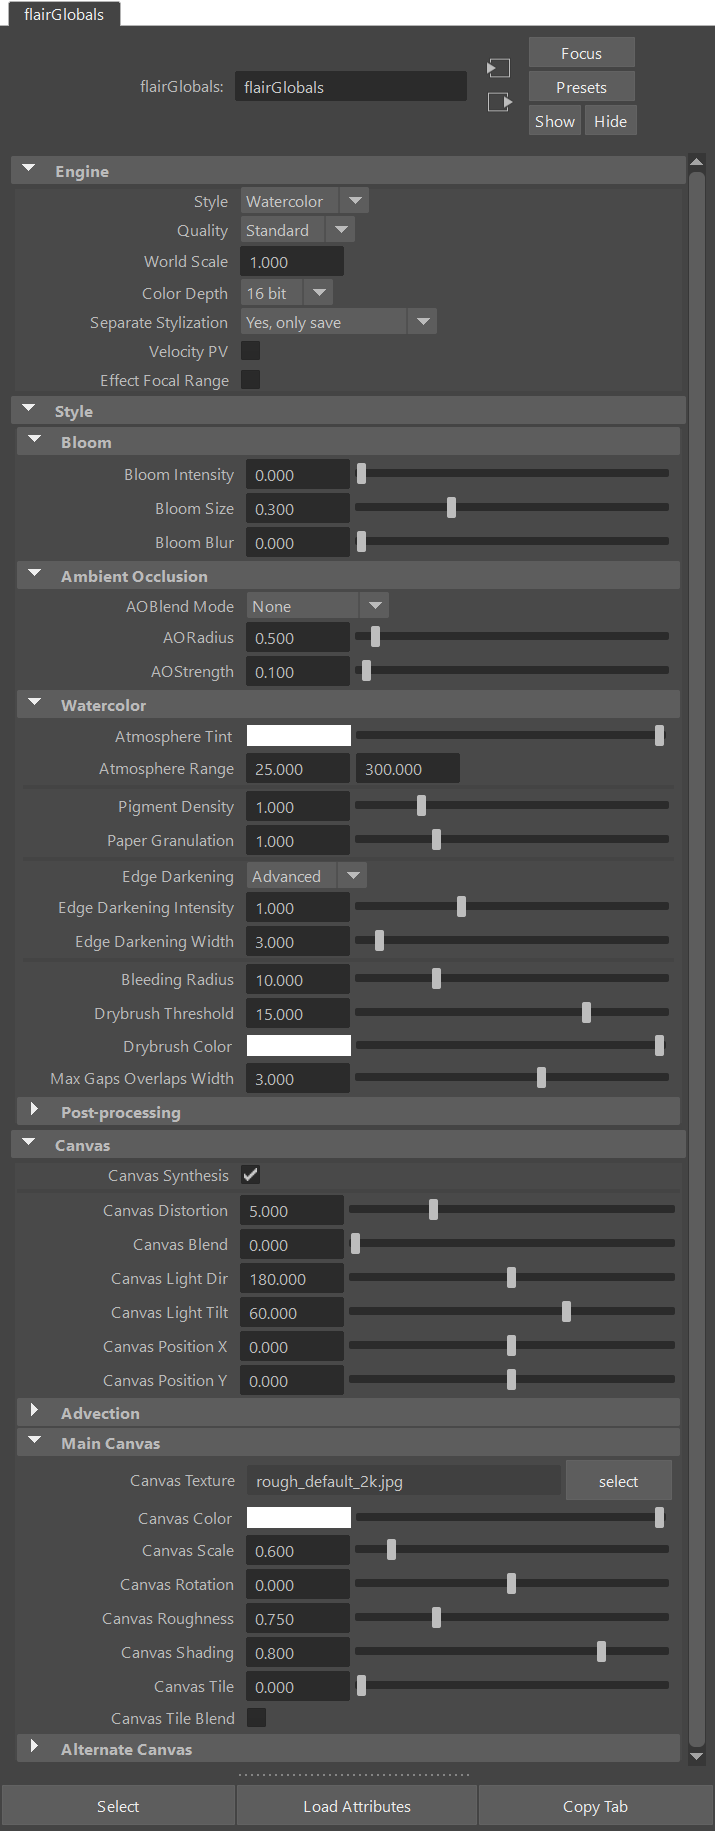
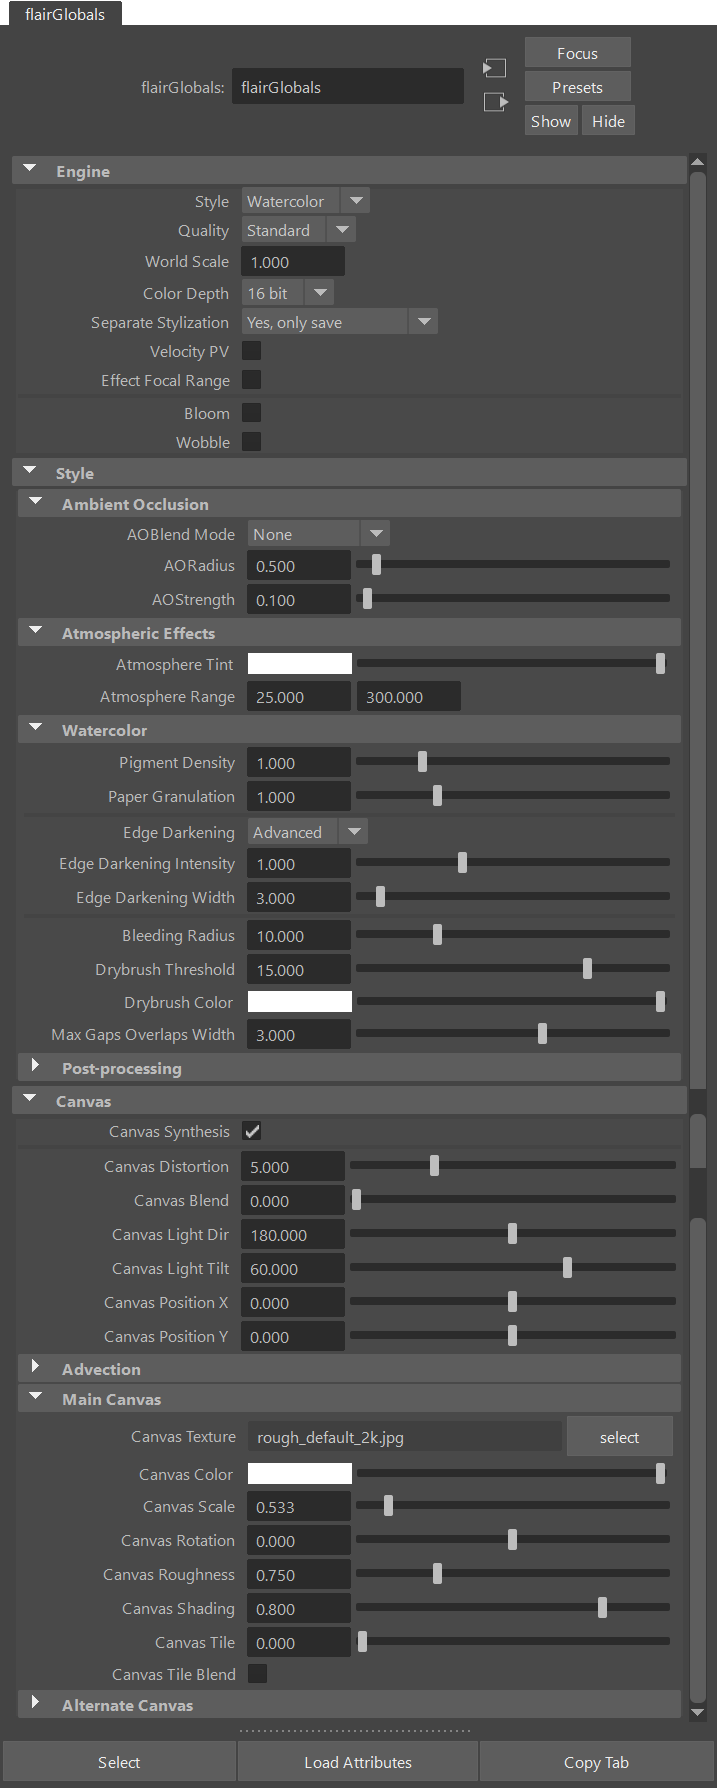
Adding wobble and bloom globals

diff --git a/flair/release-log.md b/flair/release-log.md
@@ -18,13 +18,46 @@ nav_order: 10
 
 ---
 
+## Flair 1.0.3
+> Released 10.04.2023
+
+This patch update includes the new wobble effect, the production-ready fur style (previously cat), support for the Flair material on normal Viewport 2.0, and other smaller fixes/improvements including support for Maya 2024!
+
+### Wobble effect
+The wobble effect allows to add imperfections to geometry by deforming it in 3D (see image above). 
+The global and per-material controls customize the wobble on-demand, whereas the vertexFX and noiseFX allows to meticulously art-direct the effect. 
+
+The *amplitude* defines the amount of wobble, the *frequency* the regularity of the effect and the *phase* the form of the wobble.
+
+Additionally, inspired by the "Painting with polygons" [paper](https://dl.acm.org/doi/10.1145/1597990.1598012) by Isaac Botkin, we added an additional jitter control to wobble differently at each TAA sample, achieving a similar effect in real-time. So, now artists can use the wobble jitter to add soft edges to the watercolor and fur styles when needed (other shader styles coming soon). 
+
+### Fur style
+- *Improved* - Streamlined cryptomattes for production
+- *Improved* - Polished vertexFX and noiseFX controls
+
+### Materials
+- *Improved* - Flair shader material now showing in normal Viewport 2.0
+- *Fixed* - Color plane materials not being excluded from light compositing
+- *Fixed* - Cast shadows matte not supporting multiple lights
+
+### Miscellaneous
+- *New* - Added support for Maya 2024
+- *Improved* - Removed legacy "textured" presets that were causing confusion
+- *Fixed* - Canvas Tile Blend not working correctly
+- *Fixed* - Inherit preset not handling normals maps properly
+- *Fixed* - VertexFX painting resetting the style every frame with TAA
+
+
+
+---
+
 ## Flair 1.0.2
 > Released 08.03.2023
 
 <div>
 	<figure>
 		<video autoplay loop muted playsinline style="max-height:100px;">
-			<source src="/media/release-log/1.0.2/1_0_2.mp4" type="video/mp4">
+			<source src="https://docs.artineering.io/media/release-log/1.0.2/1_0_2.mp4" type="video/mp4">
 		</video>
     <figcaption>OUT NOW!</figcaption>
   </figure>

diff --git a/flair/styles/library/frayed.md b/flair/styles/library/frayed.md
@@ -57,44 +57,12 @@ A series of frayed attributes are provided within the [globals node](/flair/gett
 </figure>
 
 ---
-## Bloom
-Bloom, sometimes also referred to as Glow, leaks light from bright areas into surrounding areas.
 
-{% include responsive-embed url="https://www.youtube.com/embed/f2CxshwgK-k" width="60%" %}
-
-### Bloom Intensity
-Defines the intensity/amount of the bloom effect.
-
-### Bloom Size
-Defines the threshold at which a pixel is bright enough to be considered for the bloom effect.
-
-### Bloom Blur
-Defines the radious of light leakage to the surrounding areas.
+{% include /effects/bloom.md %}
 
 ---
 
-## Ambient Occlusion
-
-Ambient Occlusion (AO) darkens the image in areas that are hard to reach for the ambient light due to the local shape of the geometry (e.g. concavities, crevices, holes). Note that this effect depends only on the geometry (and the viewpoint, to a lesser extent), and not on the lights present in the scene.
-
-{% include responsive-embed url="https://www.youtube.com/embed/FZfnh0KFKPg" width="60%" %}
-
-Flair currently uses a screen-space implementation of ambient occlusion based on the _Ground-Truth Ambient Occlusion_ algorithm (GTAO).
-{: .info}
-
-### AO Blend Mode
-Defines how the computed ambient occlusion is applied on the final image.
-* **None**: AO is not applied.
-* **Multiply**: the AO is multiplied over the image.
-* **Color Burn**: same as above, except that the AO is blended over the image using the _Color Burn_ blending mode.
-* **Style-specific**: AO is applied by the current style, so the effect depends on the style implementation. (default)
-	* With styles other than the *Graph* styles, the AO modulates the *pigment density*, resulting in darker colors in occluded areas.
-
-### AO Radius
-Defines the radius used by the ambient occlusion filter: larger radius results in larger darkened areas.
-
-### AO Strength
-Defines the strength of ambient occlusion: higher values make the ambient occlusion darker.
+{% include /effects/ao.md %}
 
 ---
 

diff --git a/flair/styles/library/watercolor.md b/flair/styles/library/watercolor.md
@@ -44,44 +44,12 @@ A series of watercolor attributes are provided within the globals node to contro
 </figure>
 
 ---
-## Bloom
-Bloom, sometimes also referred to as Glow, leaks light from bright areas into surrounding areas.
 
-{% include responsive-embed url="https://www.youtube.com/embed/f2CxshwgK-k" width="60%" %}
-
-### Bloom Intensity
-Defines the intensity/amount of the bloom effect.
-
-### Bloom Size
-Defines the threshold at which a pixel is bright enough to be considered for the bloom effect.
-
-### Bloom Blur
-Defines the radious of light leakage to the surrounding areas.
+{% include /effects/bloom.md %}
 
 ---
 
-## Ambient Occlusion
-
-Ambient Occlusion (AO) darkens the image in areas that are hard to reach for the ambient light due to the local shape of the geometry (e.g. concavities, crevices, holes). Note that this effect depends only on the geometry (and the viewpoint, to a lesser extent), and not on the lights present in the scene.
-
-{% include responsive-embed url="https://www.youtube.com/embed/FZfnh0KFKPg" width="60%" %}
-
-Flair currently uses a screen-space implementation of ambient occlusion based on the _Ground-Truth Ambient Occlusion_ algorithm (GTAO).
-{: .info}
-
-### AO Blend Mode
-Defines how the computed ambient occlusion is applied on the final image.
-* **None**: AO is not applied.
-* **Multiply**: the AO is multiplied over the image.
-* **Color Burn**: same as above, except that the AO is blended over the image using the _Color Burn_ blending mode.
-* **Style-specific**: AO is applied by the current style, so the effect depends on the style implementation. (default)
-	* With styles other than the *Graph* styles, the AO modulates the *pigment density*, resulting in darker colors in occluded areas.
-
-### AO Radius
-Defines the radius used by the ambient occlusion filter: larger radius results in larger darkened areas.
-
-### AO Strength
-Defines the strength of ambient occlusion: higher values make the ambient occlusion darker.
+{% include /effects/ao.md %}
 
 ---
 

diff --git a/_includes/effects/wobble.md b/_includes/effects/wobble.md
@@ -1,0 +1,28 @@
+### Geometry Wobble
+Geometry wobble adds imperfections by deforming the geometry in 3D. Enabling this attribute will show the wobble controls in the globals node (see below) and the wobble widgets in the NoiseFX and VertexFX tools.
+
+<figure class="aio-ui">
+	<img src="/media/effects/wobble/wobble-attrs.png" alt="Global wobble attributes in the Attribute Editor">
+	<figcaption>The global wobble attributes in the Attribute Editor.</figcaption>
+</figure>
+
+In case you can't see the wobble effect, make sure Flair materials also have their wobble attribute enabled.
+
+Once the wobble attribute has been enabled globally, material presets will default as wobbled.
+{: .info}
+
+#### Wobble Amplitude
+Defines the amount of wobble. The amount is also directly linked to the global [World Scale](/flair/getting-started/globals/#world-scale).
+
+#### Wobble Frequency
+Defines the regularity of the effect. A higher frequency will make the wobble more "irregular", whereas a lower frequency will make it more "regular".
+
+#### Wobble Phase
+Defines the form of the wobble. Useful when you want a different wobble deformation or want to vary the wobble on a frame-by-frame basis.
+
+As wobble is generated from noise in 3D, make sure to toggle the *deformed* attribute in materials if they are animated/deformed so that the wobble is baked in place.
+{:.info}
+
+#### Wobble Jitter (TAA)
+Defines the amount of jitter for each TAA sample, generating a soft edge by avaraging different wobble positions. This was inspired by the "Painting with polygons" [paper](https://dl.acm.org/doi/10.1145/1597990.1598012) by Isaac Botkin. 
+

diff --git a/_includes/effects/ao.md b/_includes/effects/ao.md
@@ -1,0 +1,22 @@
+### Ambient Occlusion
+
+Ambient Occlusion (AO) darkens the image in areas that are hard to reach for the ambient light due to the local shape of the geometry (e.g. concavities, crevices, holes). Note that this effect depends only on the geometry (and the viewpoint, to a lesser extent), and not on the lights present in the scene.
+
+{% include responsive-embed url="https://www.youtube.com/embed/FZfnh0KFKPg" width="60%" %}
+
+Flair currently uses a screen-space implementation of ambient occlusion based on the _Ground-Truth Ambient Occlusion_ algorithm (GTAO).
+{: .info}
+
+#### AO Blend Mode
+Defines how the computed ambient occlusion is applied on the final image.
+* **None**: AO is not applied.
+* **Multiply**: the AO is multiplied over the image.
+* **Color Burn**: same as above, except that the AO is blended over the image using the _Color Burn_ blending mode.
+* **Style-specific**: AO is applied by the current style, so the effect depends on the style implementation. (default)
+	* With styles other than the *Graph* styles, the AO modulates the *pigment density*, resulting in darker colors in occluded areas.
+
+#### AO Radius
+Defines the radius used by the ambient occlusion filter: larger radius results in larger darkened areas.
+
+#### AO Strength
+Defines the strength of ambient occlusion: higher values make the ambient occlusion darker.

diff --git a/flair/getting-started/globals.md b/flair/getting-started/globals.md
@@ -36,7 +36,7 @@ Defines the style that Flair is currently running in.
 * [**Cutout**](/flair/styles/library/cutout/) - 3D Cutout style
 * [**Hatching**](/flair/styles/library/hatching/) - Hatching and stippling style
 * [**Frayed**](/flair/styles/library/frayed/) - Frayed edges style
-* [**Cat**](/flair/styles/library/cat/) - Cat style
+* [**Fur**](/flair/styles/library/fur/) - Fur style
 * [**Sketch**](/flair/styles/library/sketch/) - Sketch and outlines style
 
 ### Quality
@@ -95,6 +95,10 @@ These locators can also be constrained/parented to a camera to have the front an
 
 -----------
 
+{% include /effects/bloom.md %}
+{% include /effects/wobble.md %}
+
+-----------
 
 ## Style
 Style attributes contain the attributes of the currently loaded style. In the case of the figure above: watercolor.
@@ -105,7 +109,7 @@ These attributes allow to globally control the parameters the style and are docu
 * [**Cutout**](/flair/styles/library/cutout/)
 * [**Hatching**](/flair/styles/library/hatching/)
 * [**Frayed**](/flair/styles/library/frayed/)
-* [**Cat**](/flair/styles/library/cat/)
+* [**Fur**](/flair/styles/library/fur/)
 * [**Sketch**](/flair/styles/library/sketch/)
 
 When using a custom _Graph_ style, the style attributes will auto-populate depending on the _Globals_ defined in the graph.

diff --git a/_includes/effects/bloom.md b/_includes/effects/bloom.md
@@ -1,0 +1,20 @@
+### Bloom
+Bloom, sometimes also referred to as Glow, leaks light from bright areas into surrounding areas. By enabling bloom globally, the following controls will appear in the globals node.
+
+<figure class="aio-ui">
+	<img src="/media/effects/bloom/bloom-attrs.png" alt="Global bloom attributes in the Attribute Editor">
+	<figcaption>The global bloom attributes in the Attribute Editor.</figcaption>
+</figure>
+
+#### Bloom intensity
+Defines the intensity/amount of the bloom effect.
+
+#### Bloom size
+Defines the threshold at which a pixel is bright enough to be considered for the bloom effect.
+
+#### Bloom Blur
+Defines the radious of light leakage to the surrounding areas.
+
+Learn more about how bloom works by watching the clip below.
+
+{% include responsive-embed url="https://www.youtube.com/embed/f2CxshwgK-k" width="60%" %}

diff --git a/flair/styles/library/fur.md b/flair/styles/library/fur.md
@@ -1,11 +1,11 @@
 ---
 layout: default
-title: Cat
+title: Fur
 parent: Style library
 grand_parent: Styles
 nav_order: 6
 ---
 
-# Cat shader style
+# Fur shader style
 
 <i class="fas fa-construction"></i> Coming soon...
